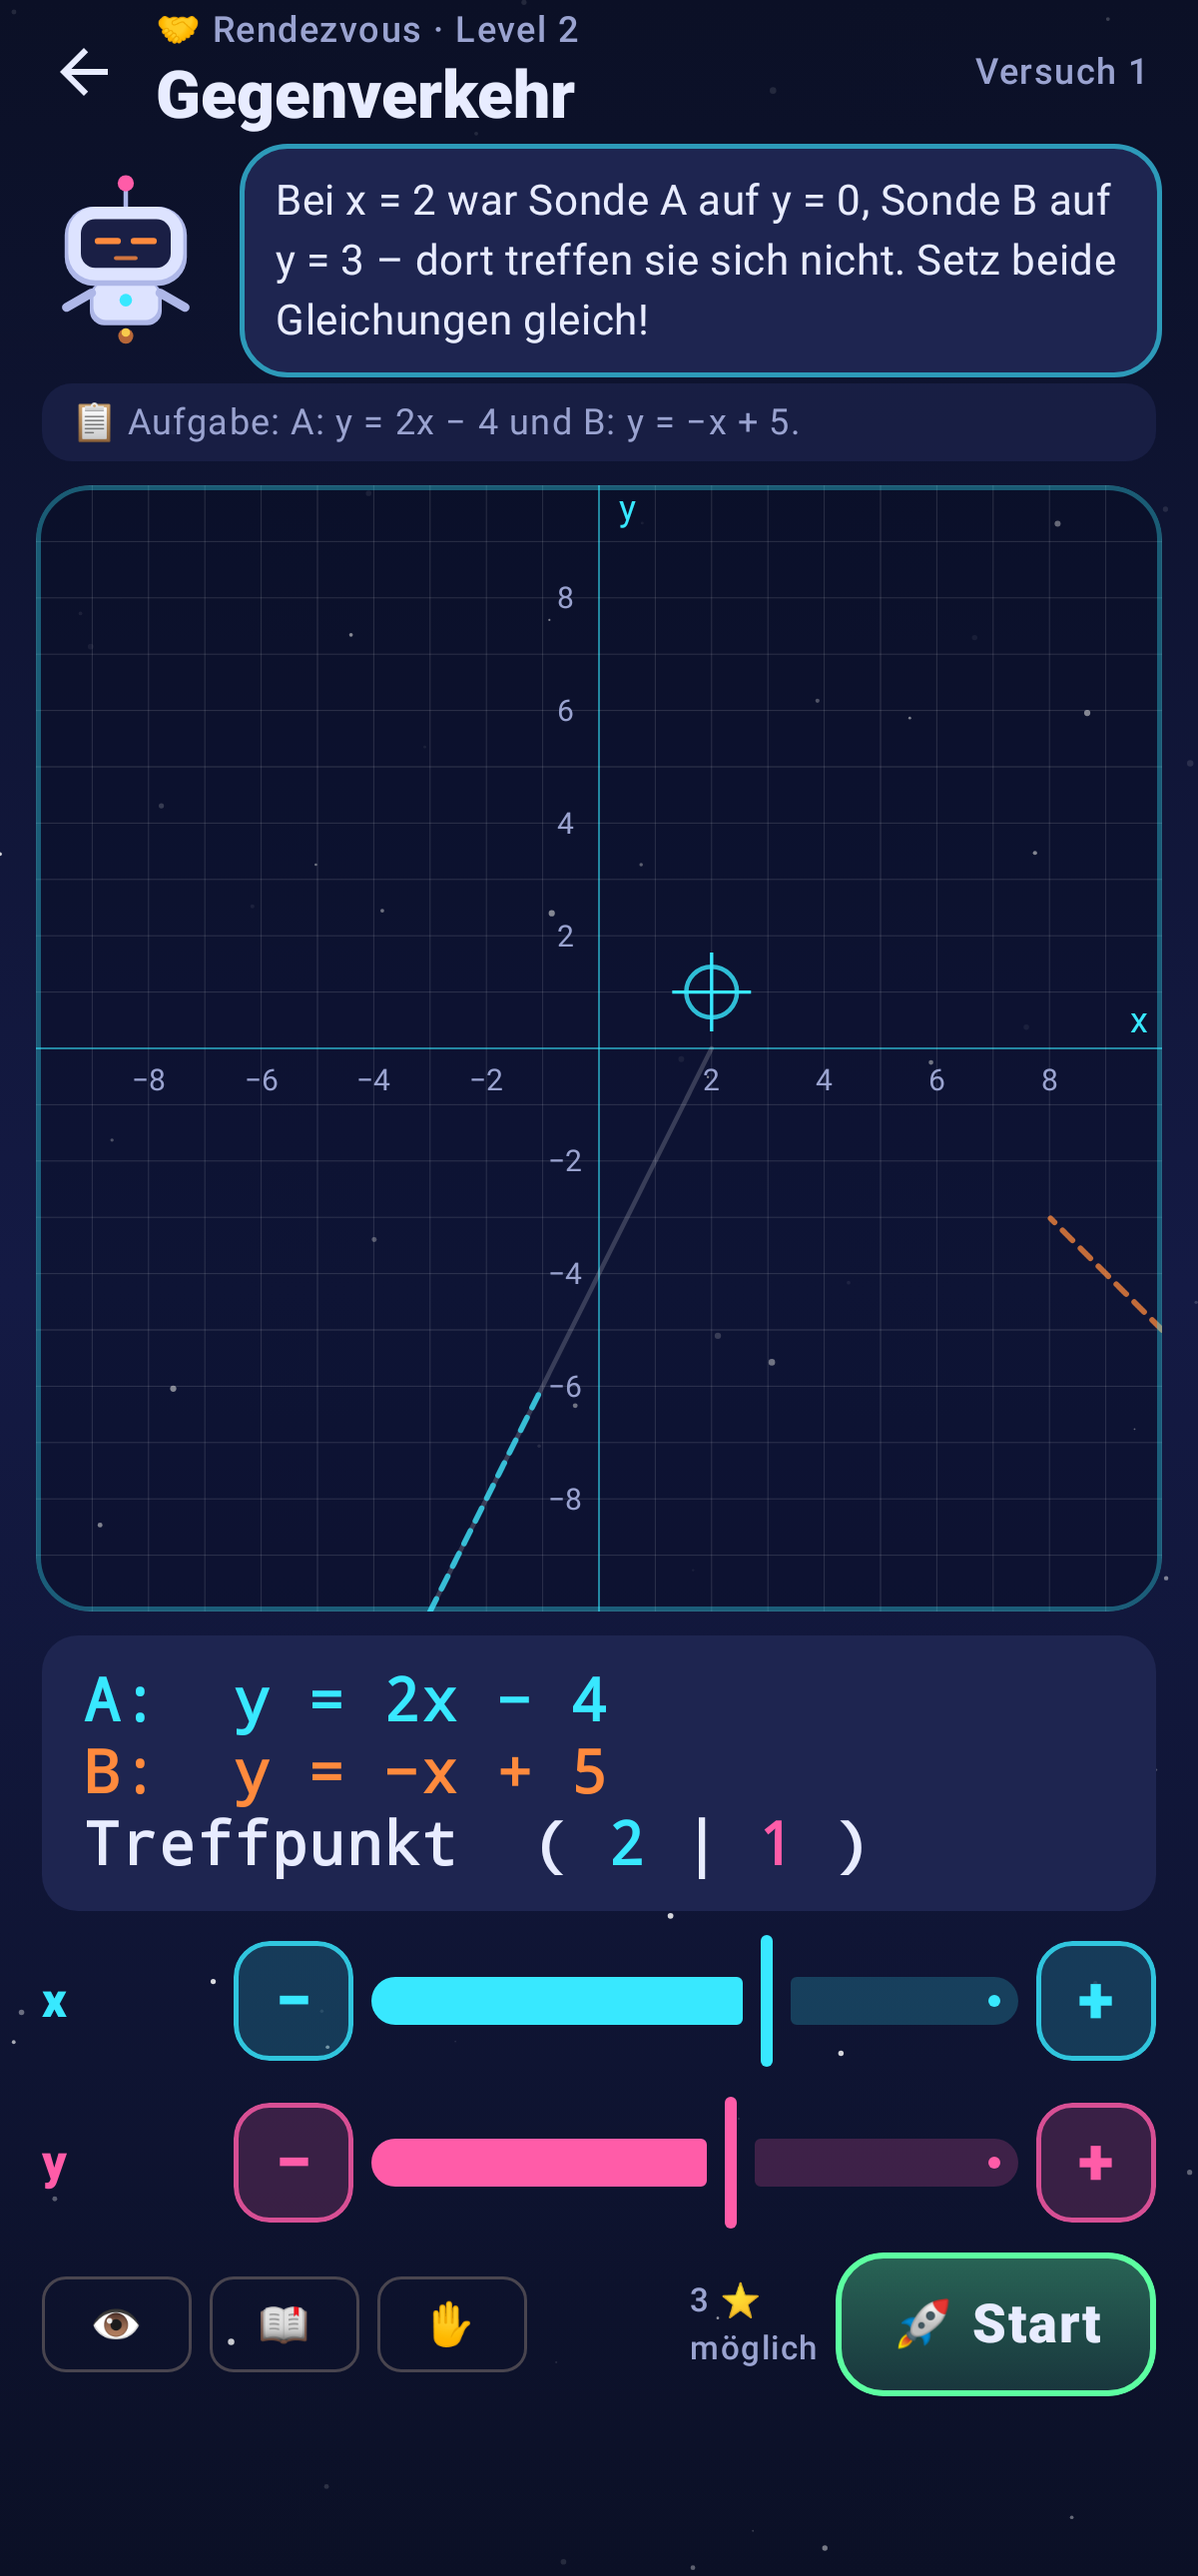
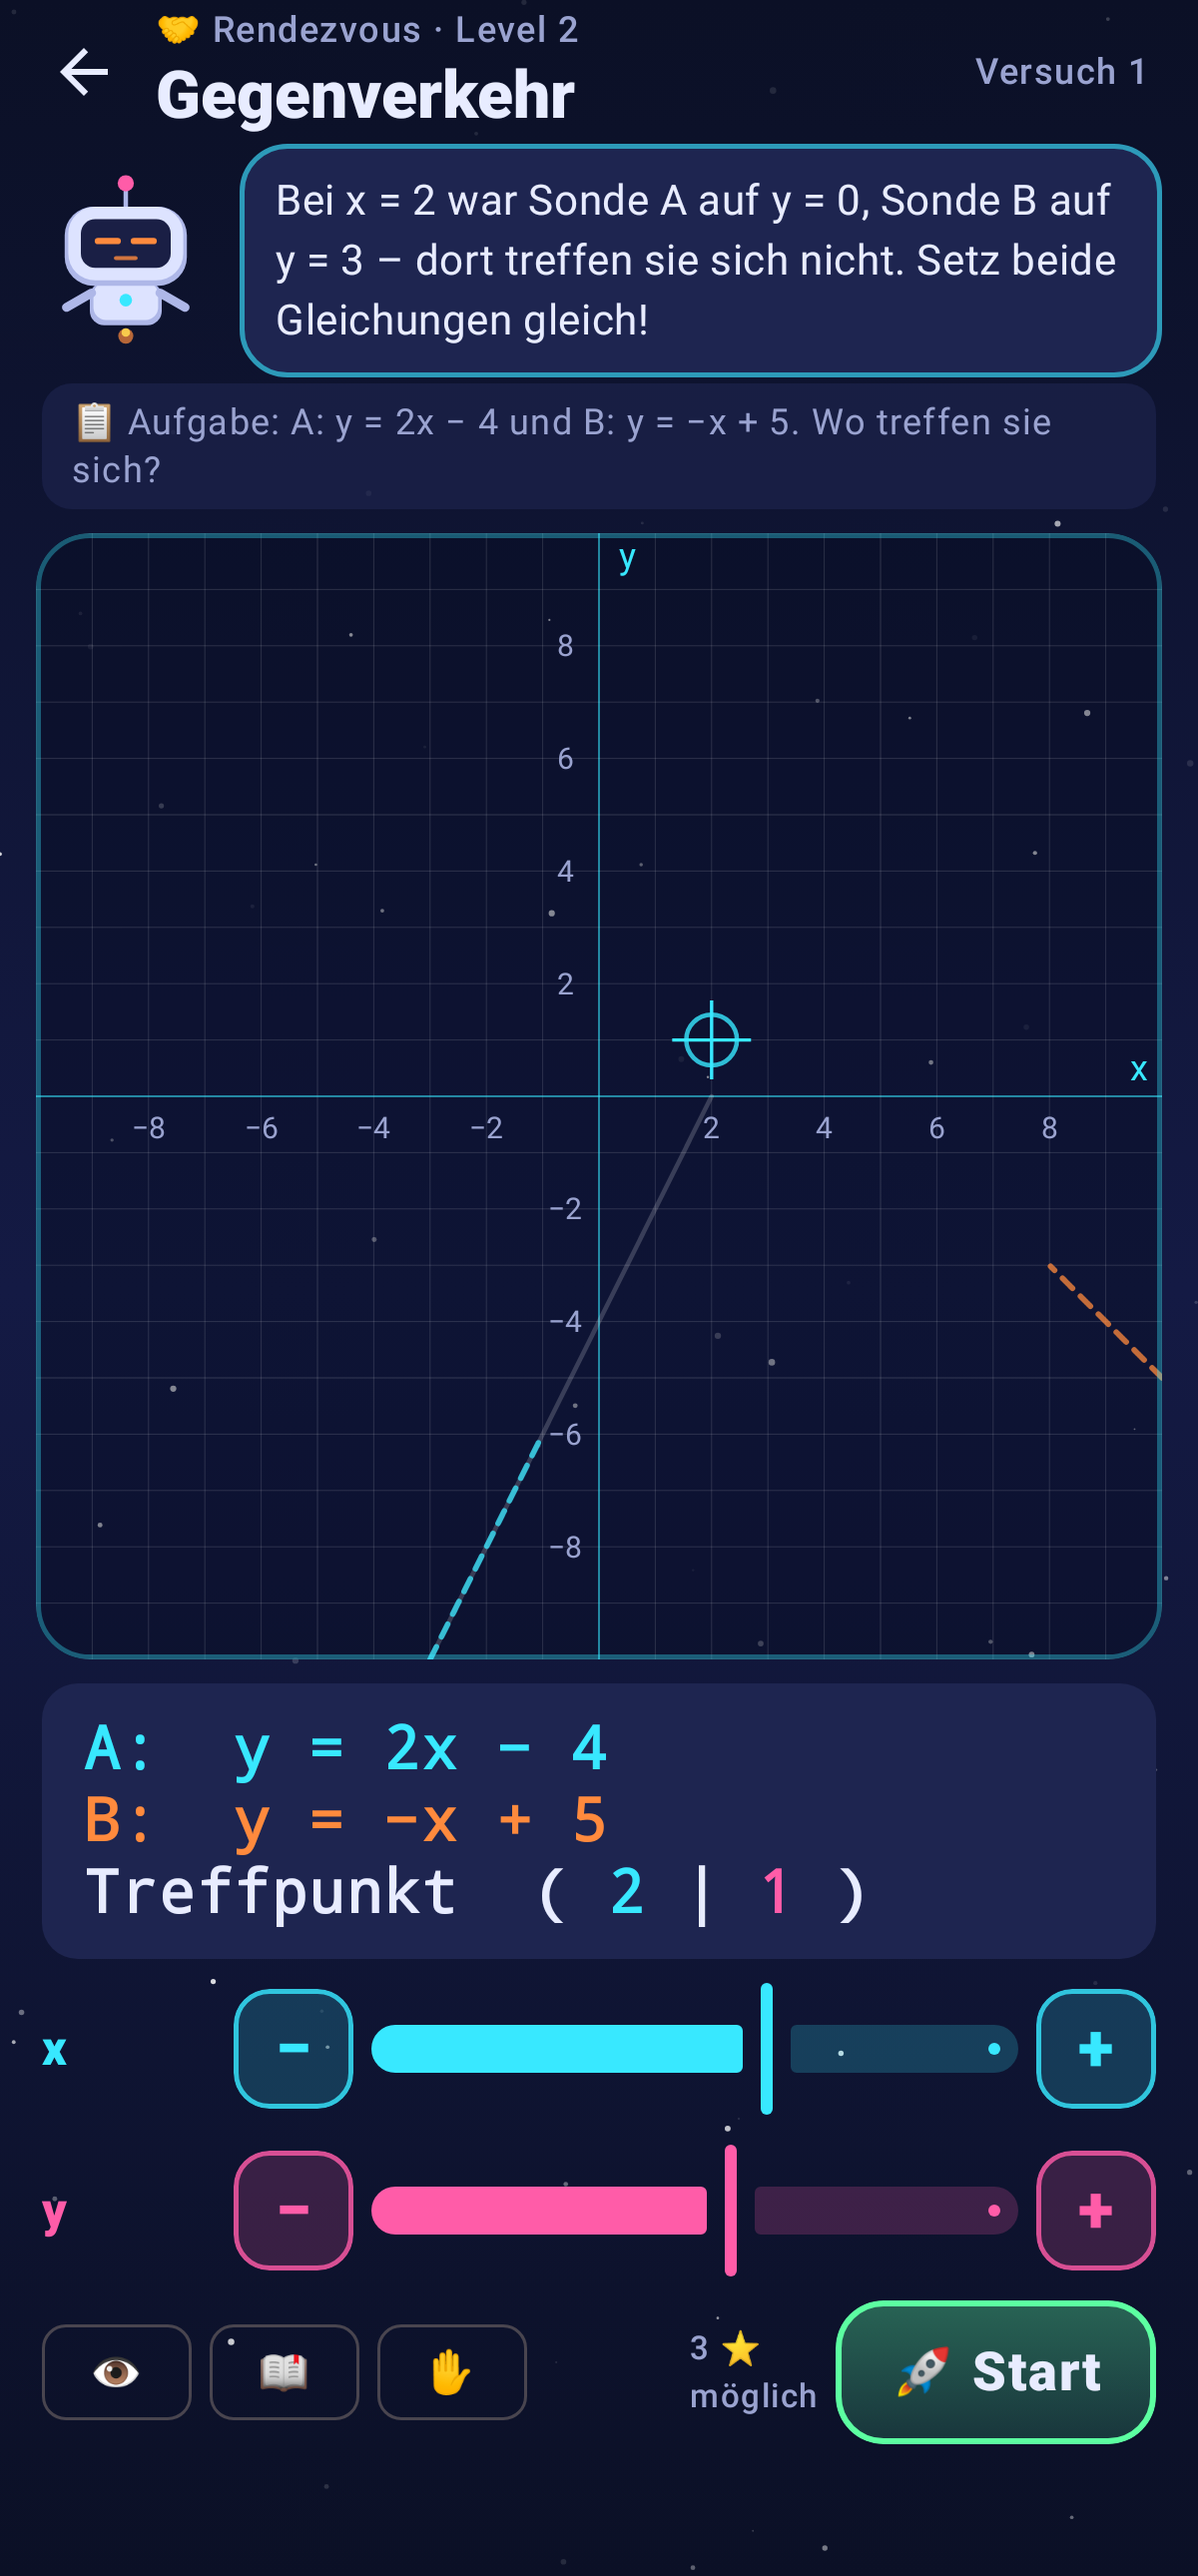
Kurvenflug 2.5.5: unklare Aufgaben klarer formuliert (Winkel, Komma-Funkspruch, Rendezvous)
Claude-Session: https://claude.ai/code/session_015vg1TniCB6sLGd2dNSJdge

diff --git a/kurvenflug/core/model/src/commonMain/kotlin/de/kurvenflug/core/model/Levels.kt b/kurvenflug/core/model/src/commonMain/kotlin/de/kurvenflug/core/model/Levels.kt
@@ -363,18 +363,18 @@ object Levels {
             listOf(
                 meet(1, "Erstes Treffen", 1.0, 1.0, -1.0, 5.0, "A: y = x + 1 und B: y = −x + 5. Wo treffen sie sich?",
                     "x + 1 = −x + 5 → 2x = 4 → x = 2. Dann y = 2 + 1."),
-                meet(2, "Gegenverkehr", 2.0, -4.0, -1.0, 5.0, "A: y = 2x − 4 und B: y = −x + 5.",
+                meet(2, "Gegenverkehr", 2.0, -4.0, -1.0, 5.0, "A: y = 2x − 4 und B: y = −x + 5. Wo treffen sie sich?",
                     "2x − 4 = −x + 5 → 3x = 9."),
-                meet(3, "Sanfte Steigung", 0.5, 2.0, -0.5, 4.0, "A: y = 0,5x + 2 und B: y = −0,5x + 4.",
+                meet(3, "Sanfte Steigung", 0.5, 2.0, -0.5, 4.0, "A: y = 0,5x + 2 und B: y = −0,5x + 4. Wo treffen sie sich?",
                     "0,5x + 2 = −0,5x + 4 → x = 2.", rocks = listOf(Body(-4.0, 6.0, 1.0))),
-                meet(4, "Halbe Sachen", 3.0, 1.0, 1.0, 4.0, "A: y = 3x + 1 und B: y = x + 4. Achtung, Kommazahlen!",
+                meet(4, "Halbe Sachen", 3.0, 1.0, 1.0, 4.0, "A: y = 3x + 1 und B: y = x + 4. Wo treffen sie sich? Achtung, Kommazahlen!",
                     "3x + 1 = x + 4 → 2x = 3 → x = 1,5."),
-                meet(5, "Tief unten", -2.0, 1.0, 1.0, -5.0, "A: y = −2x + 1 und B: y = x − 5.",
+                meet(5, "Tief unten", -2.0, 1.0, 1.0, -5.0, "A: y = −2x + 1 und B: y = x − 5. Wo treffen sie sich?",
                     "−2x + 1 = x − 5 → −3x = −6."),
-                meet(6, "Andere Schreibweise", -2.0, 7.0, 1.0, 1.0, "Funkspruch: A: 2x + y = 7 und B: x − y = −1.",
+                meet(6, "Andere Schreibweise", -2.0, 7.0, 1.0, 1.0, "Funkspruch: A: 2x + y = 7 und B: x − y = −1. Wo treffen sie sich?",
                     "Erst nach y umstellen: y = −2x + 7 und y = x + 1. Dann gleichsetzen.",
                     equations = listOf("A:  2x + y = 7", "B:  x − y = −1")),
-                meet(7, "Kreuzung im Gürtel", 1.5, -2.0, -0.5, 4.0, "A: y = 1,5x − 2 und B: y = −0,5x + 4.",
+                meet(7, "Kreuzung im Gürtel", 1.5, -2.0, -0.5, 4.0, "A: y = 1,5x − 2 und B: y = −0,5x + 4. Wo treffen sie sich?",
                     "1,5x − 2 = −0,5x + 4 → 2x = 6. y mit Kommastelle!",
                     rocks = listOf(Body(-3.0, 0.5, 1.0), Body(6.0, 3.0, 1.0))),
             ),
@@ -776,7 +776,7 @@ object Levels {
                     listOf(nl(-1.25)), listOf(nlQ), mapOf("x" to -1.25), fixed = mapOf("y" to 0.0), tip = "1¼ = 1,25 – also −1,25."),
                 Level("15-5", 15, 5, "Zehntel", Kind.POINT, "Station bei 3,7 – drei Ganze und sieben Zehntel.",
                     listOf(nl(3.7)), listOf(nlD), mapOf("x" to 3.7), fixed = mapOf("y" to 0.0), tip = "3,7: bis zur 3, dann noch 7 kleine Striche."),
-                Level("15-6", 15, 6, "Komma-Funkspruch", Kind.POINT, "Getarnt! Funkspruch: „0,8 + 1,5“",
+                Level("15-6", 15, 6, "Komma-Funkspruch", Kind.POINT, "Getarnt! Funkspruch: „0,8 + 1,5“. Rechne aus und flieg genau dorthin.",
                     listOf(nl(2.3)), listOf(nlD), mapOf("x" to 2.3), fixed = mapOf("y" to 0.0), hidden = true,
                     tip = "Zehntel zusammenzählen: 8 + 15 = 23 Zehntel = 2,3."),
                 Level("15-7", 15, 7, "Die Hälfte", Kind.POINT, "Getarnt! Die Station liegt bei der Hälfte von 7.",
@@ -799,10 +799,10 @@ object Levels {
                 angleLevel(2, "Halb so viel", 45.0, "Die Station liegt genau auf halbem Weg zwischen 0° und 90°.", "90° : 2 = 45°."),
                 angleLevel(3, "Spitz", 30.0, "Lies den Winkel der Station am Geodreieck ab.", "Zähl die kleinen Striche: je 10°."),
                 angleLevel(4, "Stumpf", 120.0, "Ein stumpfer Winkel – über die 90° hinaus.", "90° + 30° = 120°."),
-                angleLevel(5, "Nebenwinkel", 130.0, "Getarnt! Der Strahl soll den Nebenwinkel von 50° nehmen.",
+                angleLevel(5, "Nebenwinkel", 130.0, "Getarnt! Die Station liegt beim Nebenwinkel von 50°. Wie groß ist er? Stell genau diesen Winkel ein.",
                     "Nebenwinkel: 180° − 50° = 130°.", hidden = true),
-                angleLevel(6, "Dreieck", 50.0, "Getarnt! Im Dreieck sind zwei Winkel 60° und 70°. Feuere unter dem dritten.",
-                    "180° − 60° − 70° = 50°.", hidden = true),
+                angleLevel(6, "Dreieck", 50.0, "Getarnt! Ein Dreieck hat die Winkel 60° und 70°. Wie groß ist der dritte Winkel? Stell genau diesen Winkel ein – dort liegt die Station.",
+                    "Im Dreieck ergeben alle drei Winkel zusammen 180°: 180° − 60° − 70° = 50°.", hidden = true),
             ),
         ),
         Chapter(

diff --git a/kurvenflug/core/model/src/commonTest/kotlin/de/kurvenflug/core/model/ParityTest.kt b/kurvenflug/core/model/src/commonTest/kotlin/de/kurvenflug/core/model/ParityTest.kt
@@ -50,7 +50,7 @@ class ParityTest {
     }
 
     companion object {
-        const val EXPECTED = "-39a4ccc/288318"
+        const val EXPECTED = "7958501c/288369"
         const val ANDROID_CODE = "KFC1:q1YqySzJSVWyUvJILC1OLE1LT0xKVdJRKkpNK1ayilYy0jUD8ox1DZVidZTyi1JSi0CiRQYgJUCxWgA"
         const val CHECK = "2523"
     }

diff --git a/kurvenflug/MELDUNG_AN_LEITSTAND.md b/kurvenflug/MELDUNG_AN_LEITSTAND.md
@@ -1,5 +1,16 @@
 # Meldungen an den Leitstand – Kurvenflug WebApp
 
+## 2.5.5 – Fehlerbehebung aus dem Test (Marcel: „unklare Frage“ bei Winkel · Level 6) · Web = APK = Play
+- Alle 66 getarnten/Rendezvous-Aufgaben durchgesehen, unklare neu formuliert (auch in Extrem-Prüfung und Rettungsmission,
+  die dieselben Texte nutzen):
+  - Winkel 6: „Ein Dreieck hat die Winkel 60° und 70°. Wie groß ist der dritte Winkel? Stell genau diesen Winkel ein – dort
+    liegt die Station.“ (vorher „Feuere unter dem dritten.“); Tipp nennt jetzt die 180°-Regel.
+  - Winkel 5: „Die Station liegt beim Nebenwinkel von 50°. Wie groß ist er? Stell genau diesen Winkel ein.“
+  - Brüche 6: „… Rechne aus und flieg genau dorthin.“
+  - Rendezvous 2–7: „Wo treffen sie sich?“ ergänzt.
+- Nova: die neuen Texte stehen in vorlesen/texte.json; bis das Werk sie vertont hat, gehen sie über /jetzt.
+- versionCode 52, Web-/Android-Fingerabdruck neu gesetzt (beide gleich).
+
 ## ✅ 2.5.4 – fertig für den Betriebstest (versionCode 51) · Web = APK = Play
 - **Musik:** Android startet die Hintergrundmusik jetzt **sofort beim Öffnen** (natives Android, kein WebView – die Sperre
   bis zur ersten Berührung ist entfernt). Web: startet automatisch beim allerersten Tippen/Klick irgendwo (Browser-Regel).

diff --git a/kurvenflug/CHANGELOG.md b/kurvenflug/CHANGELOG.md
@@ -3,6 +3,11 @@
 Kurz und verständlich für Schüler und Eltern. Der Abschnitt der aktuellen Version erscheint automatisch
 im GitHub-Release und in der App unter „App-Update“.
 
+## 2.5.5 – Klarere Aufgaben
+- Einige Aufgaben waren missverständlich formuliert und sagen jetzt genau, was zu tun ist – z. B. „Ein Dreieck hat die
+  Winkel 60° und 70°. Wie groß ist der dritte Winkel? Stell genau diesen Winkel ein“ (statt „Feuere unter dem dritten“),
+  beim Nebenwinkel, beim Komma-Funkspruch und bei den Rendezvous-Aufgaben („Wo treffen sie sich?“).
+
 ## 2.5.4 – Musik gleich beim Start
 - Auf dem Handy startet die Musik jetzt sofort beim Öffnen (im Browser beim ersten Tippen, weil Browser Ton vorher nicht
   erlauben). „Musik aus“ in den Einstellungen gilt weiter.
